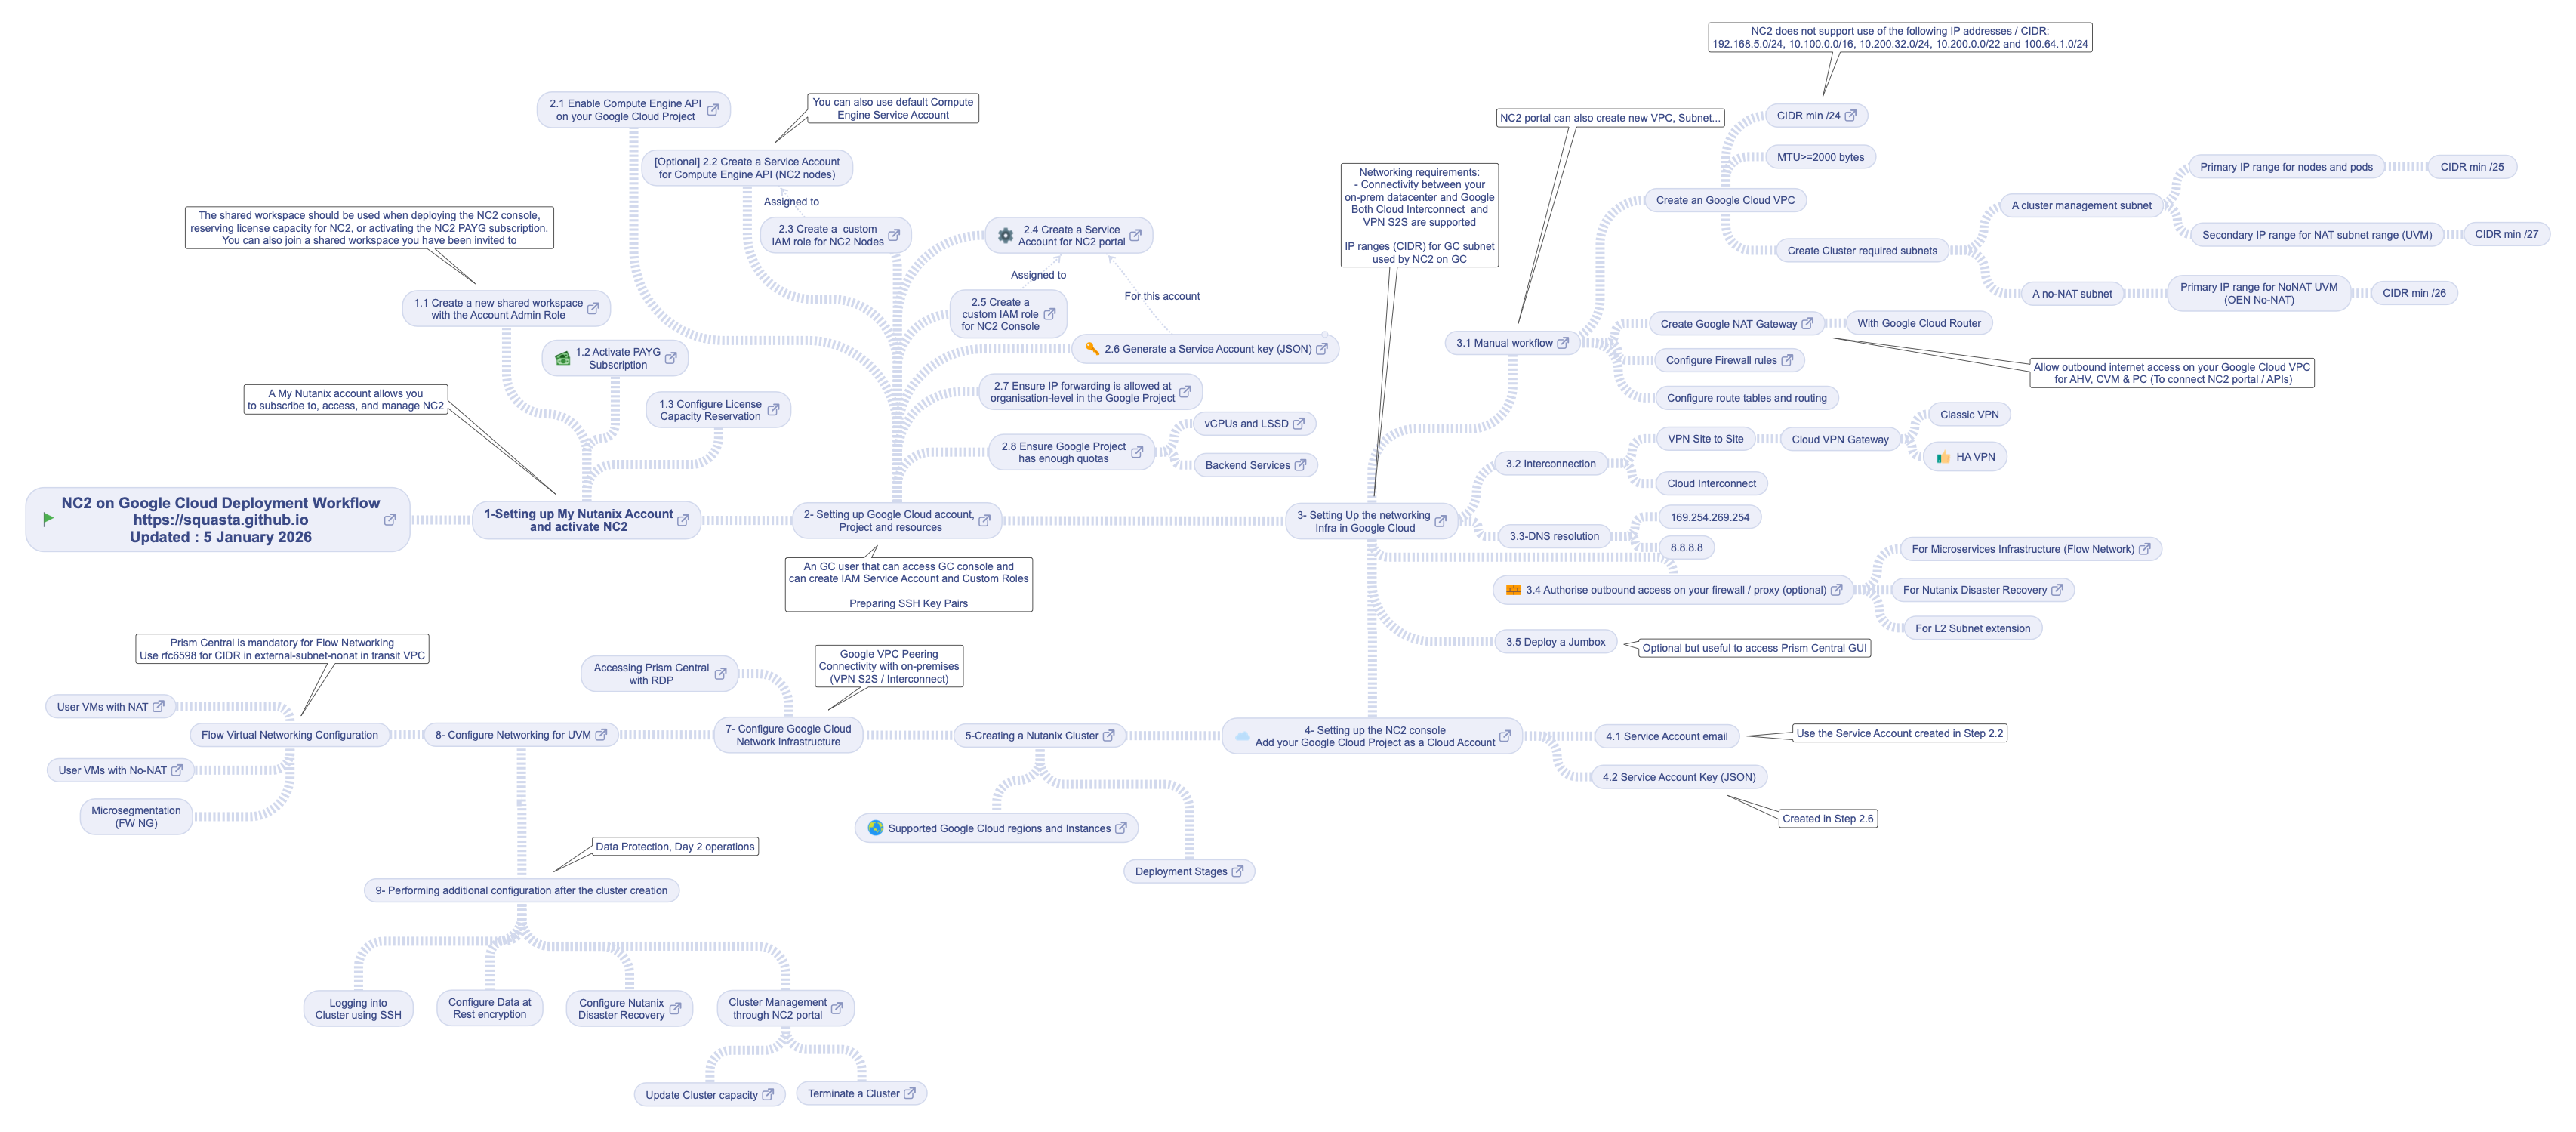
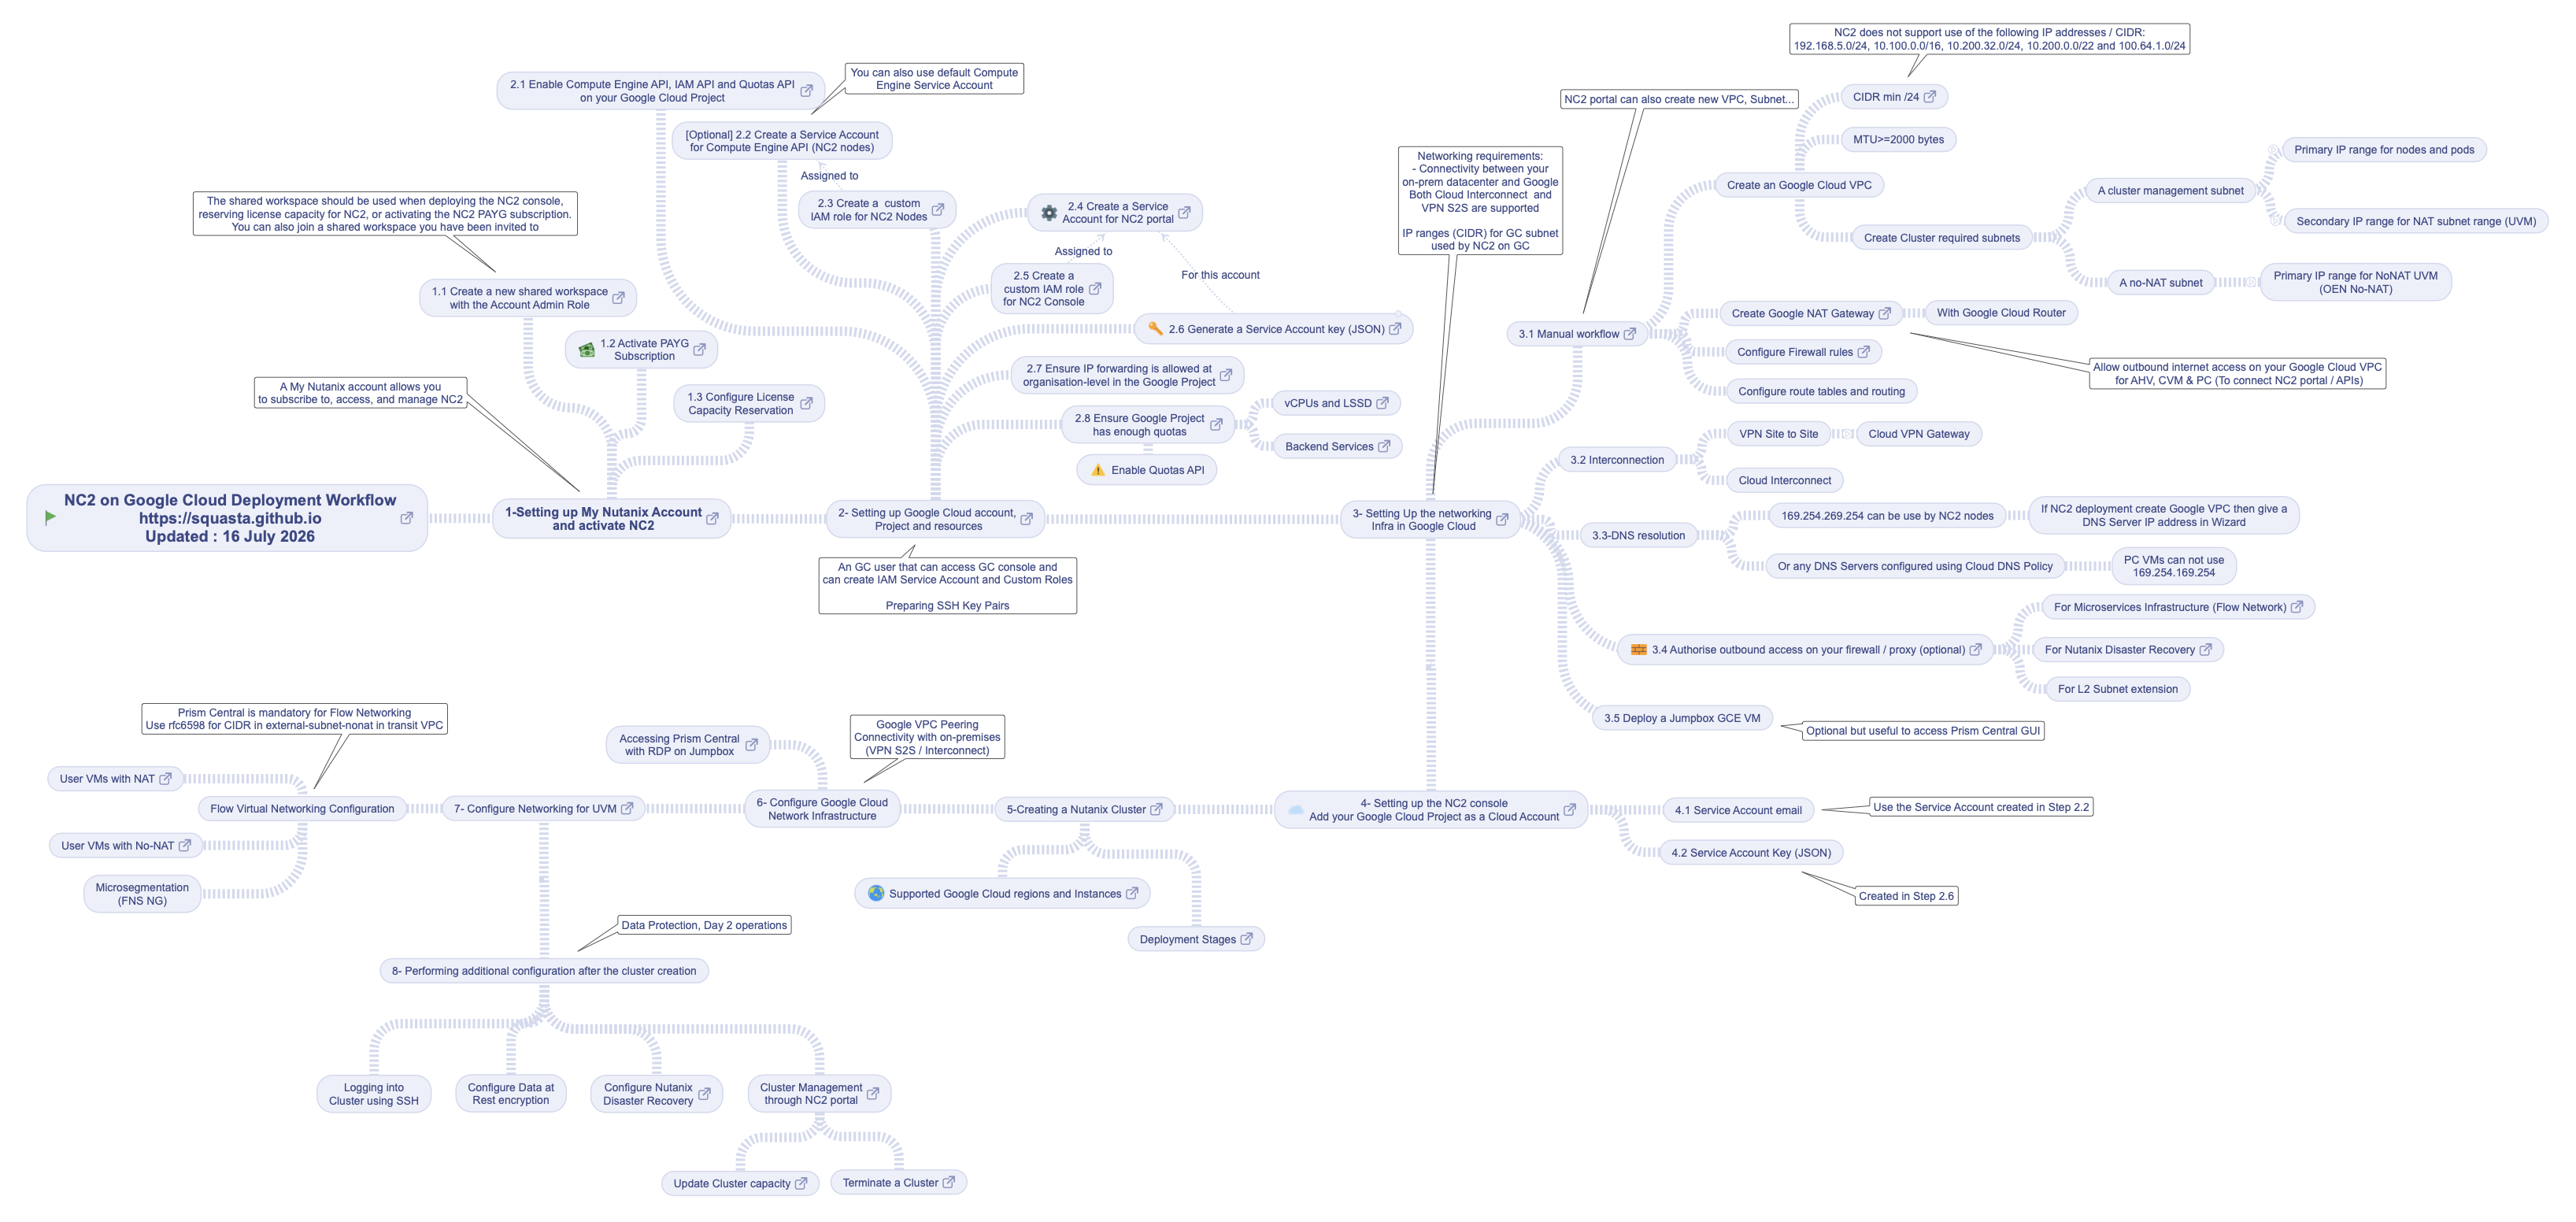
update nc2 google cloud checklist

Changed region(s): [[0.0, 0.0, 0.9976, 0.982]]

diff --git a/nc2ongcpdeploymentworkflow.html b/nc2ongcpdeploymentworkflow.html
@@ -7,43 +7,43 @@
     <body>
         <img src="nc2ongcpdeploymentworkflow.png" border="none" usemap="#map"></img>
         <map name="map">
-            <area shape="rect" coords="509,680,525,696" href="https://portal.nutanix.com/page/documents/details?targetId=Nutanix-Cloud-Clusters-Google-Cloud:nc2-clusters-google-cloud-deployment-checklist-c.html" target="_blank"></area>
-            <area shape="rect" coords="897,681,913,697" href="https://portal.nutanix.com/page/documents/details?targetId=Nutanix-Clusters-AWS:nc2-clusters-starting-a-nc2-free-trial-t.html" target="_blank"></area>
-            <area shape="rect" coords="1296,681,1312,697" href="https://portal.nutanix.com/page/documents/details?targetId=Nutanix-Cloud-Clusters-Google-Cloud:nc2-clusters-google-cloud-gcp-account-c.html" target="_blank"></area>
-            <area shape="rect" coords="1900,682,1916,698" href="https://portal.nutanix.com/page/documents/details?targetId=Nutanix-Cloud-Clusters-Google-Cloud:nc2-clusters-google-cloud-network-management-c.html" target="_blank"></area>
-            <area shape="rect" coords="1986,967,2002,983" href="https://portal.nutanix.com/page/documents/details?targetId=Nutanix-Cloud-Clusters-Google-Cloud:nc2-clusters-google-cloud-add-cloud-account-t.html" target="_blank"></area>
-            <area shape="rect" coords="1460,966,1476,982" href="https://portal.nutanix.com/page/documents/details?targetId=Nutanix-Cloud-Clusters-Google-Cloud:nc2-clusters-google-cloud-create-a-cluster-t.html" target="_blank"></area>
-            <area shape="rect" coords="1477,1088,1493,1104" href="https://portal.nutanix.com/page/documents/details?targetId=Nutanix-Cloud-Clusters-Google-Cloud:nc2-clusters-google-cloud-regions-c.html" target="_blank"></area>
-            <area shape="rect" coords="1631,1146,1647,1162" href="https://portal.nutanix.com/page/documents/details?targetId=Nutanix-Cloud-Clusters-Google-Cloud:nc2-clusters-google-cloud-deployment-stages-c.html" target="_blank"></area>
-            <area shape="rect" coords="788,965,804,981" href="https://portal.nutanix.com/page/documents/details?targetId=Nutanix-Cloud-Clusters-Google-Cloud:nc2-clusters-google-cloud-network-management-c.html" target="_blank"></area>
-            <area shape="rect" coords="886,1327,902,1343" href="https://portal.nutanix.com/page/documents/details?targetId=Nutanix-Cloud-Clusters-Google-Cloud:nc2-clusters-google-cloud-disaster-recovery-c.html" target="_blank"></area>
-            <area shape="rect" coords="1100,1327,1116,1343" href="https://portal.nutanix.com/page/documents/details?targetId=Nutanix-Cloud-Clusters-Google-Cloud:nc2-clusters-google-cloud-system-maintenance-c.html" target="_blank"></area>
-            <area shape="rect" coords="1009,1441,1025,1457" href="https://portal.nutanix.com/page/documents/details?targetId=Nutanix-Cloud-Clusters-Google-Cloud:nc2-clusters-google-cloud-update-cluster-capacity-t.html" target="_blank"></area>
-            <area shape="rect" coords="1197,1440,1213,1456" href="https://portal.nutanix.com/page/documents/details?targetId=Nutanix-Cloud-Clusters-Google-Cloud:nc2-cloud-deleting-a-cluster.html" target="_blank"></area>
-            <area shape="rect" coords="202,927,218,943" href="https://portal.nutanix.com/page/documents/details?targetId=Nutanix-Cloud-Clusters-Google-Cloud:nc2-clusters-google-cloud-config-nat-connectivity-t.html" target="_blank"></area>
-            <area shape="rect" coords="226,1012,242,1028" href="https://portal.nutanix.com/page/documents/details?targetId=Nutanix-Cloud-Clusters-Google-Cloud:nc2-clusters-google-cloud-config-no-nat-connectivity-t.html" target="_blank"></area>
-            <area shape="rect" coords="946,884,962,900" href="https://portal.nutanix.com/page/documents/details?targetId=Nutanix-Cloud-Clusters-Google-Cloud:nc2-clusters-google-cloud-access-pc-cvm-with-rdp-t.html" target="_blank"></area>
-            <area shape="rect" coords="2062,446,2078,462" href="https://portal.nutanix.com/page/documents/details?targetId=Nutanix-Cloud-Clusters-Google-Cloud:nc2-clusters-google-cloud-manual-setup-gc-c.html" target="_blank"></area>
-            <area shape="rect" coords="2443,145,2459,161" href="https://portal.nutanix.com/page/documents/details?targetId=Nutanix-Cloud-Clusters-Google-Cloud:nc2-clusters-google-cloud-limitation-c.html" target="_blank"></area>
-            <area shape="rect" coords="2386,420,2402,436" href="https://portal.nutanix.com/page/documents/details?targetId=Nutanix-Cloud-Clusters-Google-Cloud:nc2-clusters-google-cloud-router-nat-gw-c.html" target="_blank"></area>
-            <area shape="rect" coords="2359,469,2375,485" href="https://portal.nutanix.com/page/documents/details?targetId=Nutanix-Cloud-Clusters-Google-Cloud:nc2-clusters-google-cloud-control-traffic-with-firewall-t.html" target="_blank"></area>
-            <area shape="rect" coords="2425,773,2441,789" href="https://portal.nutanix.com/page/documents/details?targetId=Nutanix-Cloud-Clusters-Google-Cloud:nc2-clusters-google-cloud-port-endpoints-requirements-c.html" target="_blank"></area>
-            <area shape="rect" coords="2833,719,2849,735" href="https://portal.nutanix.com/page/documents/kbs/details?targetId=kA07V000000LevaSAC" target="_blank"></area>
-            <area shape="rect" coords="2717,773,2733,789" href="https://portal.nutanix.com/page/documents/list?type=software&amp;filterKey=software&amp;filterVal=Ports%20and%20Protocols&amp;productType=DR%20-%20Disaster%20Recovery%20%28formerly%20Leap%29" target="_blank"></area>
-            <area shape="rect" coords="1382,408,1398,424" href="https://portal.nutanix.com/page/documents/details?targetId=Nutanix-Cloud-Clusters-Google-Cloud:nc2-clusters-google-cloud-config-service-account-nc2-t.html" target="_blank"></area>
-            <area shape="rect" coords="1496,304,1512,320" href="https://portal.nutanix.com/page/documents/details?targetId=Nutanix-Cloud-Clusters-Google-Cloud:nc2-clusters-google-cloud-config-service-account-nc2-t.html" target="_blank"></area>
-            <area shape="rect" coords="936,137,952,153" href="https://portal.nutanix.com/page/documents/details?targetId=Nutanix-Cloud-Clusters-Google-Cloud:nc2-clusters-google-cloud-enable-compute-engine-api-t.html" target="_blank"></area>
-            <area shape="rect" coords="1743,454,1759,470" href="https://cloud.google.com/iam/docs/keys-create-delete#creating" target="_blank"></area>
-            <area shape="rect" coords="1747,435,1763,451" href="notes/note_1.html" title="NC2 uses a service account key to sign a JSON Web Token (JWT) and exchange it for an access
+            <area shape="rect" coords="509,650,525,666" href="https://portal.nutanix.com/page/documents/details?targetId=Nutanix-Cloud-Clusters-Google-Cloud:nc2-clusters-google-cloud-deployment-checklist-c.html" target="_blank"></area>
+            <area shape="rect" coords="897,651,913,667" href="https://portal.nutanix.com/page/documents/details?targetId=Nutanix-Clusters-AWS:nc2-clusters-starting-a-nc2-free-trial-t.html" target="_blank"></area>
+            <area shape="rect" coords="1296,651,1312,667" href="https://portal.nutanix.com/page/documents/details?targetId=Nutanix-Cloud-Clusters-Google-Cloud:nc2-clusters-google-cloud-gcp-account-c.html" target="_blank"></area>
+            <area shape="rect" coords="1900,652,1916,668" href="https://portal.nutanix.com/page/documents/details?targetId=Nutanix-Cloud-Clusters-Google-Cloud:nc2-clusters-google-cloud-network-management-c.html" target="_blank"></area>
+            <area shape="rect" coords="1986,1020,2002,1036" href="https://portal.nutanix.com/page/documents/details?targetId=Nutanix-Cloud-Clusters-Google-Cloud:nc2-clusters-google-cloud-add-cloud-account-t.html" target="_blank"></area>
+            <area shape="rect" coords="1461,1020,1477,1036" href="https://portal.nutanix.com/page/documents/details?targetId=Nutanix-Cloud-Clusters-Google-Cloud:nc2-clusters-google-cloud-create-a-cluster-t.html" target="_blank"></area>
+            <area shape="rect" coords="1430,1126,1446,1142" href="https://portal.nutanix.com/page/documents/details?targetId=Nutanix-Cloud-Clusters-Google-Cloud:nc2-clusters-google-cloud-regions-c.html" target="_blank"></area>
+            <area shape="rect" coords="1575,1184,1591,1200" href="https://portal.nutanix.com/page/documents/details?targetId=Nutanix-Cloud-Clusters-Google-Cloud:nc2-clusters-google-cloud-deployment-stages-c.html" target="_blank"></area>
+            <area shape="rect" coords="788,1019,804,1035" href="https://portal.nutanix.com/page/documents/details?targetId=Nutanix-Cloud-Clusters-Google-Cloud:nc2-clusters-google-cloud-network-management-c.html" target="_blank"></area>
+            <area shape="rect" coords="887,1381,903,1397" href="https://portal.nutanix.com/page/documents/details?targetId=Nutanix-Cloud-Clusters-Google-Cloud:nc2-clusters-google-cloud-disaster-recovery-c.html" target="_blank"></area>
+            <area shape="rect" coords="1101,1381,1117,1397" href="https://portal.nutanix.com/page/documents/details?targetId=Nutanix-Cloud-Clusters-Google-Cloud:nc2-clusters-google-cloud-system-maintenance-c.html" target="_blank"></area>
+            <area shape="rect" coords="1009,1495,1025,1511" href="https://portal.nutanix.com/page/documents/details?targetId=Nutanix-Cloud-Clusters-Google-Cloud:nc2-clusters-google-cloud-update-cluster-capacity-t.html" target="_blank"></area>
+            <area shape="rect" coords="1197,1493,1213,1509" href="https://portal.nutanix.com/page/documents/details?targetId=Nutanix-Cloud-Clusters-Google-Cloud:nc2-cloud-deleting-a-cluster.html" target="_blank"></area>
+            <area shape="rect" coords="202,981,218,997" href="https://portal.nutanix.com/page/documents/details?targetId=Nutanix-Cloud-Clusters-Google-Cloud:nc2-clusters-google-cloud-config-nat-connectivity-t.html" target="_blank"></area>
+            <area shape="rect" coords="227,1066,243,1082" href="https://portal.nutanix.com/page/documents/details?targetId=Nutanix-Cloud-Clusters-Google-Cloud:nc2-clusters-google-cloud-config-no-nat-connectivity-t.html" target="_blank"></area>
+            <area shape="rect" coords="947,938,963,954" href="https://portal.nutanix.com/page/documents/details?targetId=Nutanix-Cloud-Clusters-Google-Cloud:nc2-clusters-google-cloud-access-pc-cvm-with-rdp-t.html" target="_blank"></area>
+            <area shape="rect" coords="2062,416,2078,432" href="https://portal.nutanix.com/page/documents/details?targetId=Nutanix-Cloud-Clusters-Google-Cloud:nc2-clusters-google-cloud-manual-setup-gc-c.html" target="_blank"></area>
+            <area shape="rect" coords="2443,115,2459,131" href="https://portal.nutanix.com/page/documents/details?targetId=Nutanix-Cloud-Clusters-Google-Cloud:nc2-clusters-google-cloud-limitation-c.html" target="_blank"></area>
+            <area shape="rect" coords="2386,390,2402,406" href="https://portal.nutanix.com/page/documents/details?targetId=Nutanix-Cloud-Clusters-Google-Cloud:nc2-clusters-google-cloud-router-nat-gw-c.html" target="_blank"></area>
+            <area shape="rect" coords="2359,439,2375,455" href="https://portal.nutanix.com/page/documents/details?targetId=Nutanix-Cloud-Clusters-Google-Cloud:nc2-clusters-google-cloud-control-traffic-with-firewall-t.html" target="_blank"></area>
+            <area shape="rect" coords="2501,817,2517,833" href="https://portal.nutanix.com/page/documents/details?targetId=Nutanix-Cloud-Clusters-Google-Cloud:nc2-clusters-google-cloud-port-endpoints-requirements-c.html" target="_blank"></area>
+            <area shape="rect" coords="2909,763,2925,779" href="https://portal.nutanix.com/page/documents/kbs/details?targetId=kA07V000000LevaSAC" target="_blank"></area>
+            <area shape="rect" coords="2794,817,2810,833" href="https://portal.nutanix.com/page/documents/list?type=software&amp;filterKey=software&amp;filterVal=Ports%20and%20Protocols&amp;productType=DR%20-%20Disaster%20Recovery%20%28formerly%20Leap%29" target="_blank"></area>
+            <area shape="rect" coords="1383,359,1399,375" href="https://portal.nutanix.com/page/documents/details?targetId=Nutanix-Cloud-Clusters-Google-Cloud:nc2-clusters-google-cloud-config-service-account-nc2-t.html" target="_blank"></area>
+            <area shape="rect" coords="1496,262,1512,278" href="https://portal.nutanix.com/page/documents/details?targetId=Nutanix-Cloud-Clusters-Google-Cloud:nc2-clusters-google-cloud-config-service-account-nc2-t.html" target="_blank"></area>
+            <area shape="rect" coords="1017,107,1033,123" href="https://portal.nutanix.com/page/documents/details?targetId=Nutanix-Cloud-Clusters-Google-Cloud:nc2-clusters-google-cloud-enable-compute-engine-api-t.html" target="_blank"></area>
+            <area shape="rect" coords="1764,410,1780,426" href="https://cloud.google.com/iam/docs/keys-create-delete#creating" target="_blank"></area>
+            <area shape="rect" coords="1768,390,1784,406" href="notes/note_1.html" title="NC2 uses a service account key to sign a JSON Web Token (JWT) and exchange it for an access
 token. You need the service account key while adding the cloud account in the NC2 console."></area>
-            <area shape="rect" coords="1498,591,1514,607" href="https://portal.nutanix.com/page/documents/details?targetId=Nutanix-Cloud-Clusters-Google-Cloud:nc2-clusters-google-cloud-increase-service-quota-for-user-vpcs-t.html" target="_blank"></area>
-            <area shape="rect" coords="1712,553,1728,569" href="https://portal.nutanix.com/page/documents/details?targetId=Nutanix-Cloud-Clusters-Google-Cloud:nc2-clusters-google-cloud-vcpu-lssd-quota-c.html" target="_blank"></area>
-            <area shape="rect" coords="1714,608,1730,624" href="https://portal.nutanix.com/page/documents/details?targetId=Nutanix-Cloud-Clusters-Google-Cloud:nc2-clusters-google-cloud-increase-service-quota-for-user-vpcs-t.html" target="_blank"></area>
-            <area shape="rect" coords="1562,511,1578,527" href="https://portal.nutanix.com/page/documents/details?targetId=Nutanix-Cloud-Clusters-Google-Cloud:nc2-clusters-google-cloud-policy-constraints-c.html" target="_blank"></area>
-            <area shape="rect" coords="1176,303,1192,319" href="https://portal.nutanix.com/page/documents/details?targetId=Nutanix-Cloud-Clusters-Google-Cloud:nc2-clusters-google-cloud-enable-compute-engine-api-t.html" target="_blank"></area>
-            <area shape="rect" coords="778,400,794,416" href="https://portal.nutanix.com/page/documents/details?targetId=Xi-Cloud-Services-Administration-Guide:adm-nutanix-cloud-creating-workspace-t.html" target="_blank"></area>
-            <area shape="rect" coords="1016,534,1032,550" href="https://portal.nutanix.com/page/documents/details?targetId=Nutanix-Cloud-Clusters-Google-Cloud:nc2-clusters-reserving-license-capacity-for-use-on-nc2-t.html" target="_blank"></area>
-            <area shape="rect" coords="881,466,897,482" href="https://portal.nutanix.com/page/documents/details?targetId=Nutanix-Cloud-Clusters-Google-Cloud:nc2-clusters-subscription-and-billing-c.html" target="_blank"></area>
+            <area shape="rect" coords="1537,531,1553,547" href="https://portal.nutanix.com/page/documents/details?targetId=Nutanix-Cloud-Clusters-Google-Cloud:nc2-clusters-google-cloud-increase-service-quota-for-user-vpcs-t.html" target="_blank"></area>
+            <area shape="rect" coords="1748,504,1764,520" href="https://portal.nutanix.com/page/documents/details?targetId=Nutanix-Cloud-Clusters-Google-Cloud:nc2-clusters-google-cloud-vcpu-lssd-quota-c.html" target="_blank"></area>
+            <area shape="rect" coords="1750,559,1766,575" href="https://portal.nutanix.com/page/documents/details?targetId=Nutanix-Cloud-Clusters-Google-Cloud:nc2-clusters-google-cloud-increase-service-quota-for-user-vpcs-t.html" target="_blank"></area>
+            <area shape="rect" coords="1549,468,1565,484" href="https://portal.nutanix.com/page/documents/details?targetId=Nutanix-Cloud-Clusters-Google-Cloud:nc2-clusters-google-cloud-policy-constraints-c.html" target="_blank"></area>
+            <area shape="rect" coords="1183,258,1199,274" href="https://portal.nutanix.com/page/documents/details?targetId=Nutanix-Cloud-Clusters-Google-Cloud:nc2-clusters-google-cloud-enable-compute-engine-api-t.html" target="_blank"></area>
+            <area shape="rect" coords="778,370,794,386" href="https://portal.nutanix.com/page/documents/details?targetId=Xi-Cloud-Services-Administration-Guide:adm-nutanix-cloud-creating-workspace-t.html" target="_blank"></area>
+            <area shape="rect" coords="1016,504,1032,520" href="https://portal.nutanix.com/page/documents/details?targetId=Nutanix-Cloud-Clusters-Google-Cloud:nc2-clusters-reserving-license-capacity-for-use-on-nc2-t.html" target="_blank"></area>
+            <area shape="rect" coords="881,436,897,452" href="https://portal.nutanix.com/page/documents/details?targetId=Nutanix-Cloud-Clusters-Google-Cloud:nc2-clusters-subscription-and-billing-c.html" target="_blank"></area>
         </map>
     </body>
 </html>